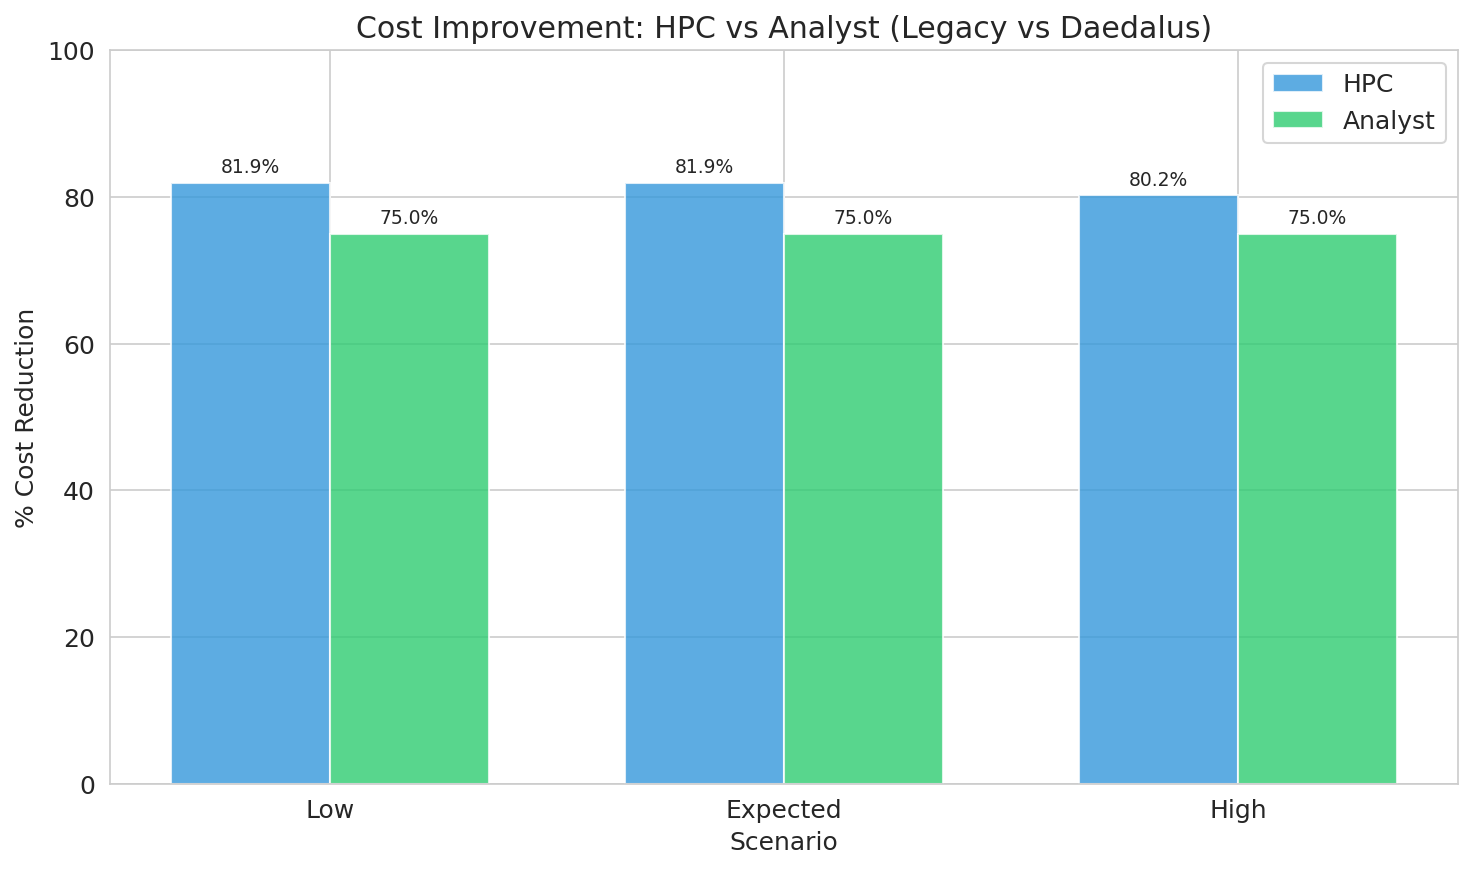
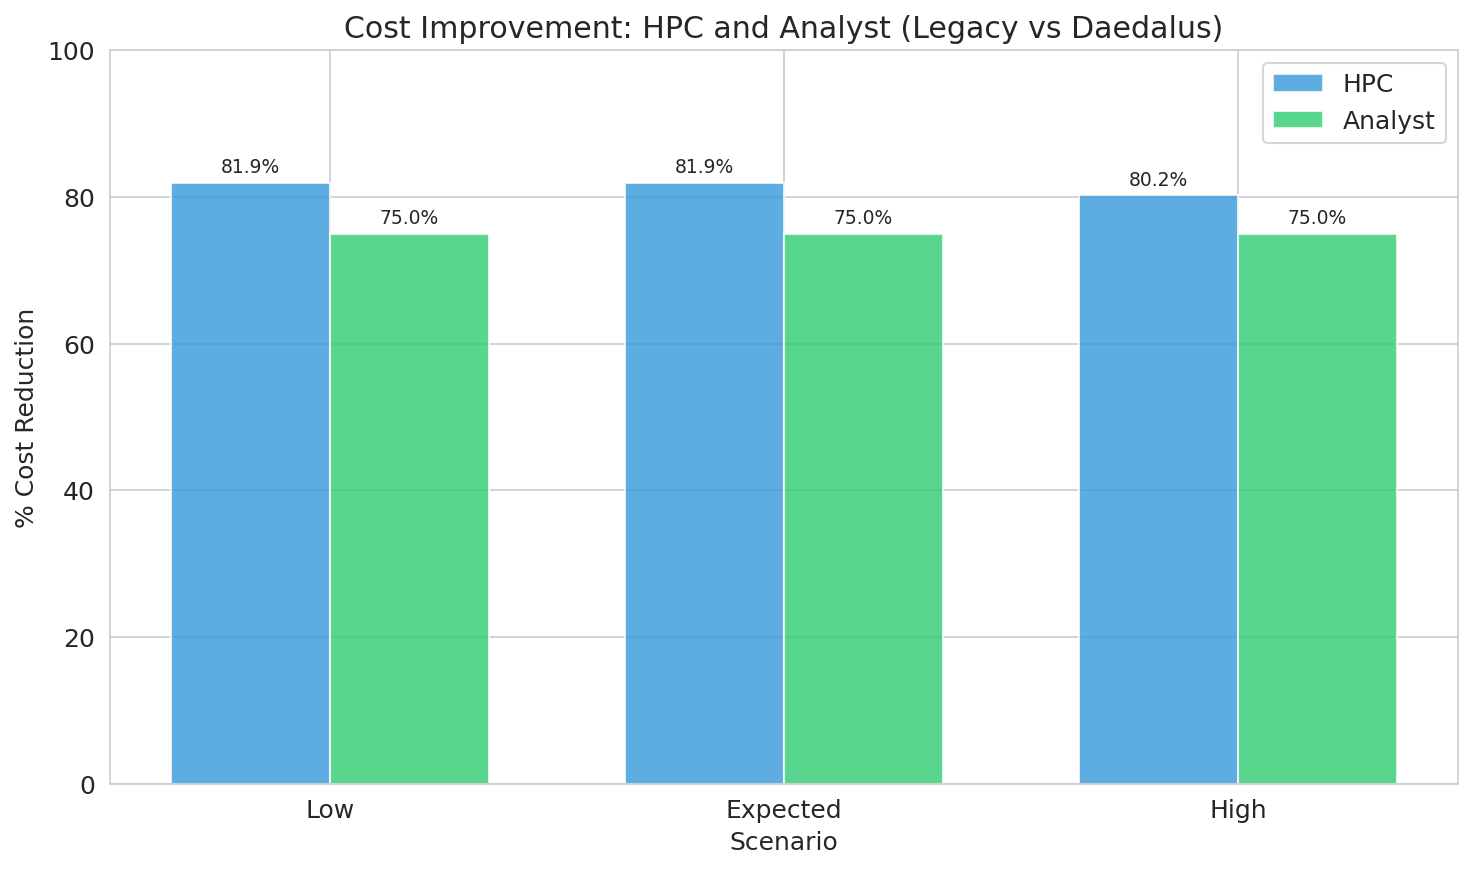
moved jupyter notebooks to notebooks; added aug_data_exp.ipynb to analyze data job submitted in august; updated readme and other minor code improvement in roi analysis

Changed region(s): [[0.2186, 0.0, 0.8432, 0.0621]]

diff --git a/deliverables/roi-analysis/README.md b/deliverables/roi-analysis/README.md
@@ -24,17 +24,19 @@ roi-analysis/
 │   ├── P1-ROI-Cost-Analysis.md
 │   ├── P1-ROI-Job-Output-Details.md
 │   └── P1-ROI-Cost-Scenarios.md
-├── scripts/                            # Analysis scripts
-│   ├── roi_calculator.py               # Legacy flow calculator
-│   └── roi_calculator_daedalus.py      # Daedalus flow calculator
-├── docs/                               # Reference documents
-│   ├── roi_scenarios.csv               # Low/expected/high scenario parameters
-│   └── data-analyst-time.md            # Analyst time estimation methodology
-├── roi_analysis_notebook.ipynb         # Jupyter notebook for display
-├── roi-analysis-Lindsey-questions.md   # HPC cost model and analyst rate
-├── pyproject.toml                      # Python dependencies
-├── uv.lock                             # Dependency lock file
-└── README.md                           # This file
+├── scripts/                                # Analysis scripts
+│   ├── roi_calculator.py                   # Legacy flow calculator
+│   └── roi_calculator_daedalus.py          # Daedalus flow calculator
+├── notebooks /                             # Jupyter notebooks for analysis and display
+│   ├── roi_analysis_notebook.ipynb         # Legacy vs Deadalus comparision and display
+│   └── aug_data_exp.ipynb                  # August Jobs data exploration
+├── docs/                                   # Reference documents
+│   ├── roi_scenarios.csv                   # Low/expected/high scenario parameters
+│   ├── roi-analysis-Lindsey-questions.md   # HPC cost model and analyst rate
+│   └── data-analyst-time.md                # Analyst time estimation methodology
+├── pyproject.toml                          # Python dependencies
+├── uv.lock                                 # Dependency lock file
+└── README.md                               # This file
 ```
 
 ## Quick Start
